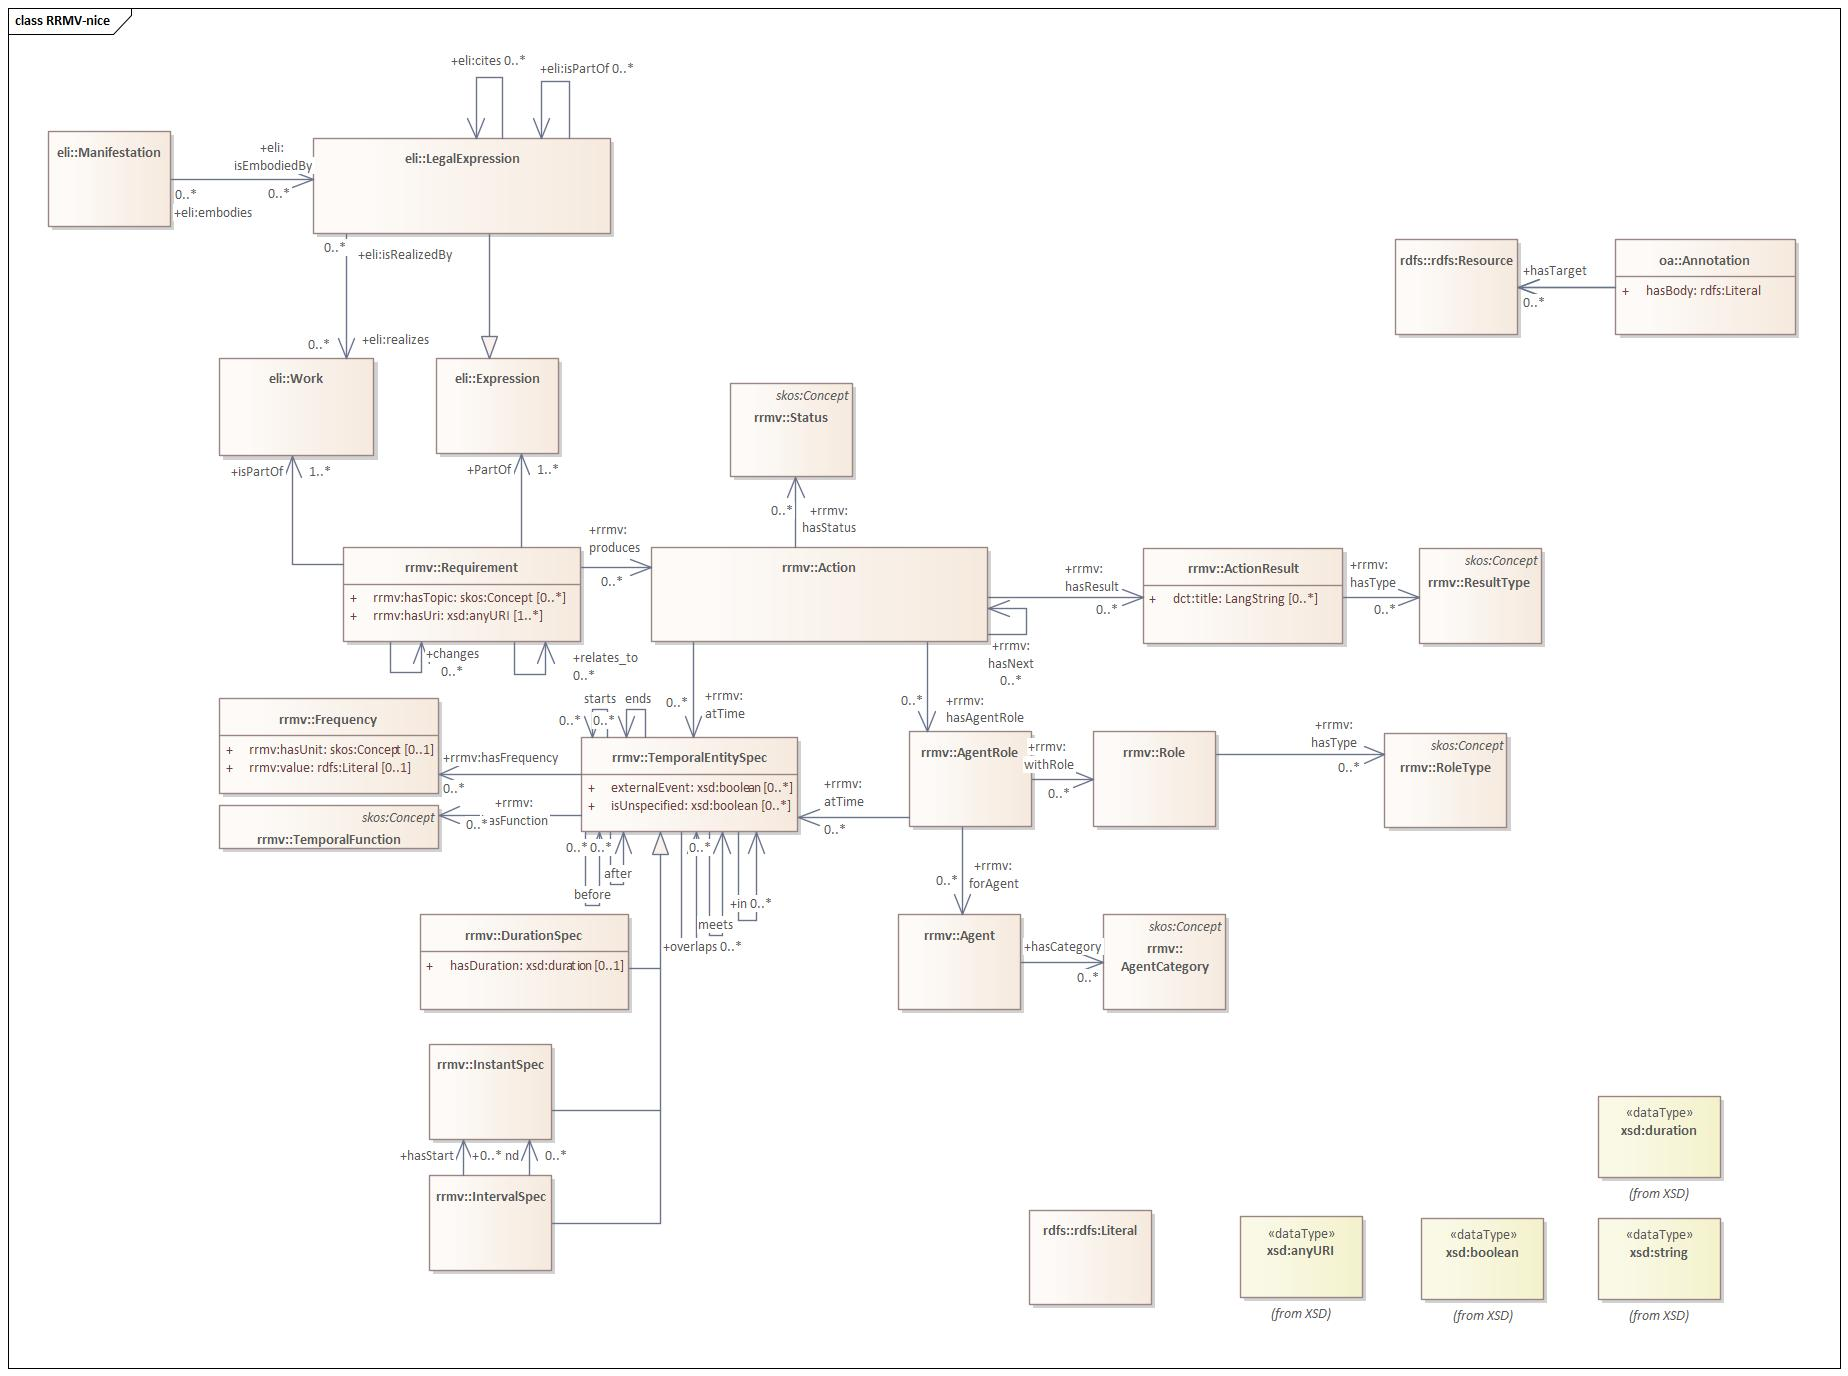
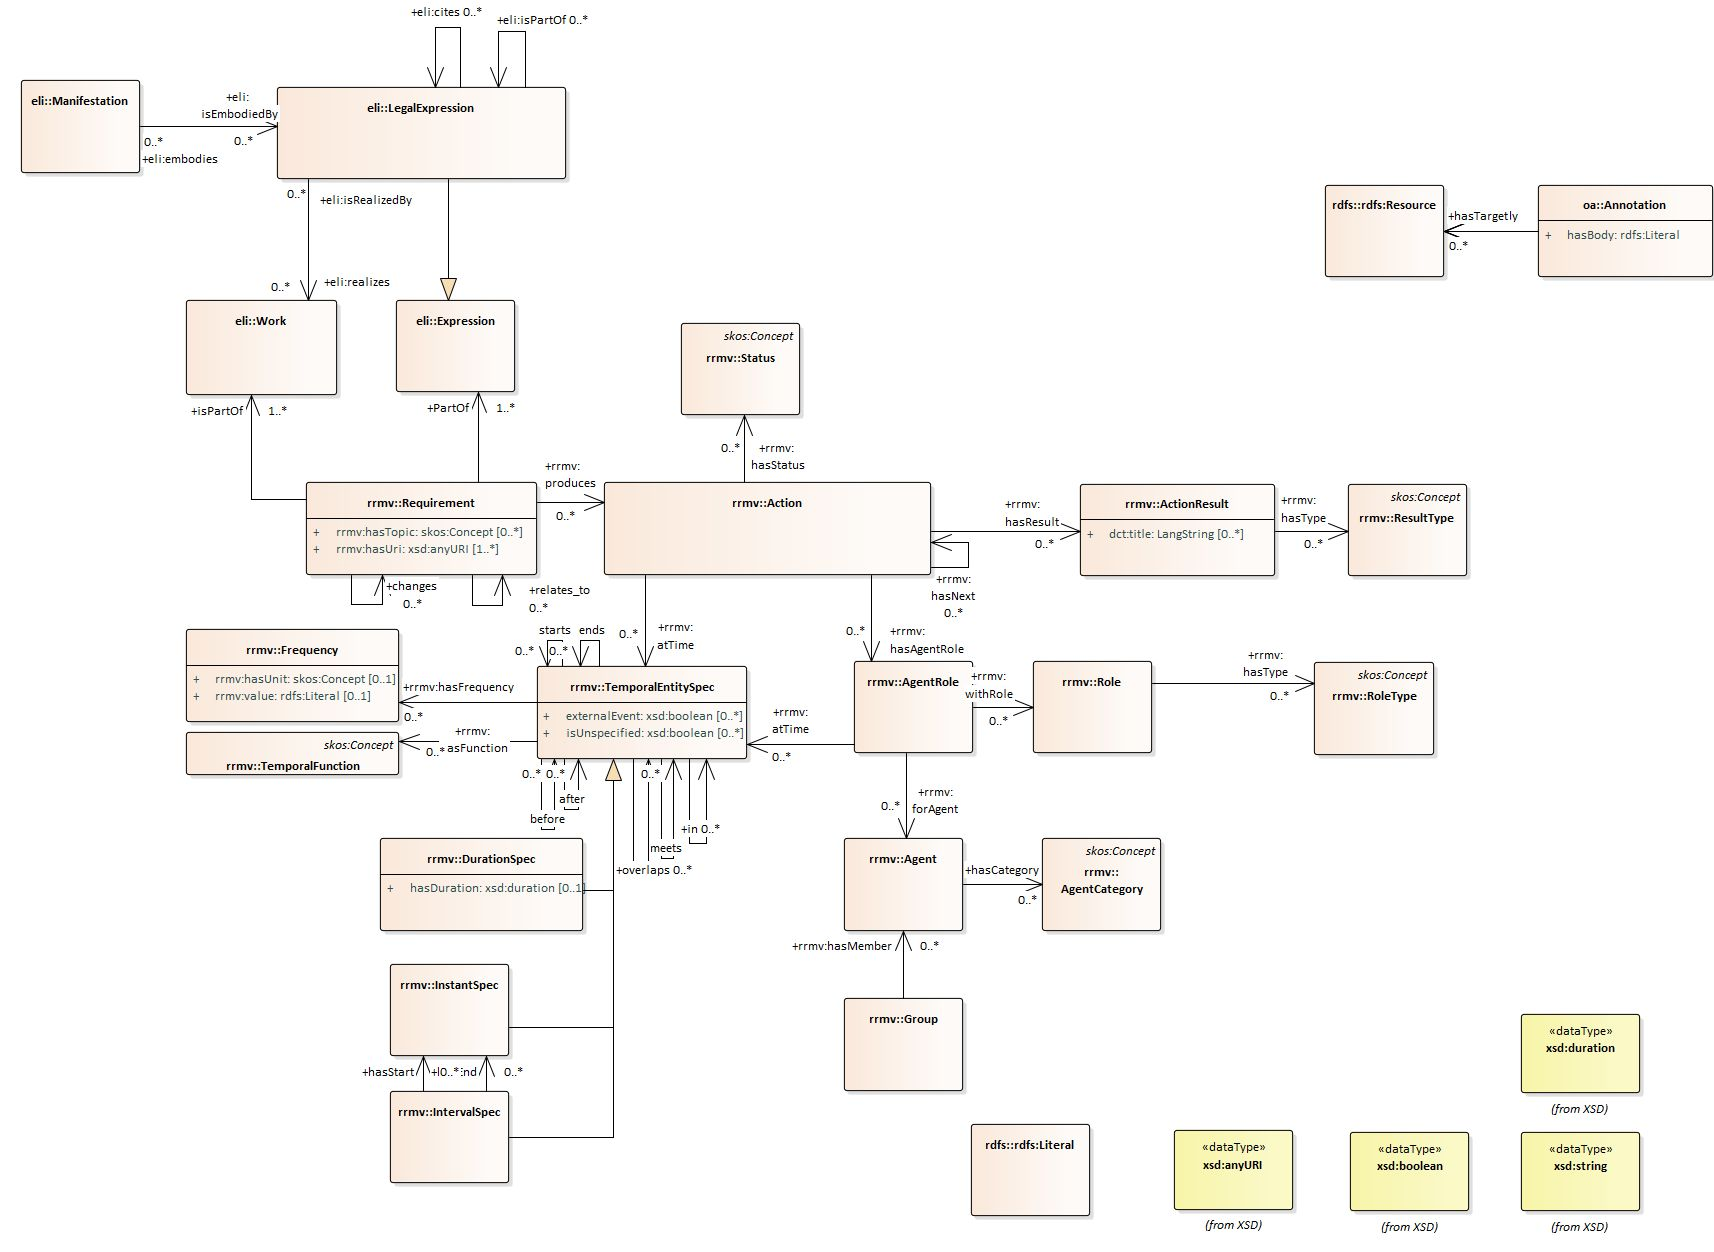
update release 1.0.0

diff --git a/releases/1.0.0/index.html b/releases/1.0.0/index.html
@@ -523,6 +523,7 @@ The cardinalities and qualifications are included in the figure.
 			      <a href="#DurationTemporalEntitySpecification">Duration Temporal Entity Specification</a> |
 			      <a href="#Expression">Expression</a> |
 			      <a href="#Frequency">Frequency</a> |
+			      <a href="#Group">Group</a> |
 			      <a href="#InstantTemporalEntitySpecification">Instant Temporal Entity Specification</a> |
 			      <a href="#IntervalTemporalEntitySpecification">Interval Temporal Entity Specification</a> |
 			      <a href="#LegalExpression">Legal Expression</a> |
@@ -1564,6 +1565,8 @@ Therefore it may vary over time when new versions of DCAT-AP are created.
 
     </div>
 </section>
+
+
 
 
 
@@ -3222,6 +3225,157 @@ In this context, supporting entities are those defined in the same namespace as 
 
    
         <section>
+            <h3 id="Group">
+                <a href="http://data.europa.eu/2qy/rrmv#Group"
+                   data-toggle="tooltip"
+                   data-content="http://data.europa.eu/2qy/rrmv#Group"
+                   data-placement="right">Group</a>
+
+            </h3>
+	        <!-- XXX an image in the h3 will break the rendering of the Table Of Contents of Respec -->
+		<!-- outcomment github feedback possibility
+                <a href="https://github.com/SEMICeu/RRMV/issues/new?title=Issue%20for%20Group&body=Explain%20your%20issue"}}>
+                   <img src="html/callout.png" loading="lazy" alt="(create issue)" width="20" height="20"/>
+		</a>
+		-->
+            <dl>
+                <dt>
+                    Definition
+                </dt>
+                <dd>
+                    Legal subjects involved in an Action that constitutes a group of entities, such as classes of persons, organisations or things
+                </dd>
+                
+                
+                
+                    <dt>
+                        Properties
+                    </dt>
+                    
+                        <dd>
+                            For this entity the following properties are defined: <a href="#Group.hasmember">has member</a>
+                            .
+                    </dd>
+                
+            </dl>
+        </div>
+        
+            <div class="u-table-overflow">
+                <table class="data-table simple" id="table-mandatory-classes">
+                    <thead>
+                        <tr class="data-table__header">
+<!--
+                            <th class="data-table__header-title--sortable" style="width:5%">
+                            </th>
+--->
+                            <th class="data-table__header-title--sortable data-table__header-title--sortable-active" style="width:12%">
+                                Property
+                            </th>
+                            <th class="data-table__header-title--sortable" style="width:12%">
+                                Range
+                            </th>
+                            <th class="data-table__header-title--sortable" style="width:6%">
+                                Card
+                            </th>
+                            <th class="data-table__header-title--sortable" style="width:30%">
+                                Definition 
+                            </th>
+                            <th class="data-table__header-title--sortable" style="width:30%">
+                                Usage
+                            </th>
+			    <!--
+                            <th class="data-table__header-title--sortable" style="width:3%">
+                                Codelist
+                            </th>
+			    -->
+			    <!--
+                            <th class="data-table__header-title--sortable" style="width:3%">
+                                DCAT
+                            </th>
+			    -->
+			    <!--
+                            <th class="data-table__header-title--sortable" style="width:3%">
+                                Reuse
+                            </th>
+			    -->
+                        </tr>
+                    </thead>
+                    <tbody class="supertype">
+                        
+                            <tr id="Group.hasmember"
+                                typeof="rdfs:Property"
+                                resource="http://data.europa.eu/2qy/rrmv#rrmv:hasMember"
+                                class="class mandatory">
+<!--
+                                <td>
+				    <a href="https://github.com/SEMICeu/RRMV/issues/new?title=Issue%20for%20has member%20in%20Group&body=Explain%20your%20issue%20for%20https://semiceu.github.io/RRMV/releases/1.0.0%23Group.hasmember" target="_blank" rel="noopener noreferrer" >
+                                        <img src="html/callout.png" loading="lazy" alt="[o]" width="100" height="100"/>
+                                    </a>
+                                </td>
+--->
+                                <td>
+                                        <a href="http://data.europa.eu/2qy/rrmv#rrmv:hasMember"
+                                           data-toggle="tooltip"
+                                           data-content="http://data.europa.eu/2qy/rrmv#rrmv:hasMember"
+                                           data-placement="right">
+                                        has member</a>
+                                </td>
+                                <td>
+                                    
+                                        
+                                            <a href="#Agent" data-placement="right">Agent</a>
+                                        
+                                    
+                                </td>
+                                <td>
+                                    0..*
+                                </td>
+                                <td property="rdfs:comment">
+                                    A Group has a member if the Agent is part of the Group, either as an individual entity or as a subgroup.
+                                </td>
+                                <td property="skos:scopeNote">
+                                    
+                                </td>
+				<!--
+                                <td>
+                                    
+                                </td>
+				-->
+				<!--
+                                <td>
+                                    
+                                </td>
+				-->
+				<!--
+                                <td>
+                                    
+				        P
+				    
+                                </td>
+				-->
+                            </tr>
+                        
+                    </tbody>
+                </table>
+            </div>
+        
+
+                   
+
+	  
+
+
+    </div>
+</section>
+
+
+
+
+
+
+
+   
+        <section>
             <h3 id="InstantTemporalEntitySpecification">
                 <a href="http://data.europa.eu/2qy/rrmv#InstantSpec"
                    data-toggle="tooltip"
@@ -3965,7 +4119,8 @@ In this application profile, the supporting imported entities are those that are
                     </dt>
                     
                         <dd>
-                            For this entity the following properties are defined: <a href="#Annotation.hasbody">has body</a>
+                            For this entity the following properties are defined: <a href="#Annotation.bodyvalue">body value</a>
+                            , <a href="#Annotation.hasbody">has body</a>
                             , <a href="#Annotation.hastarget">has target</a>
                             .
                     </dd>
@@ -4015,6 +4170,59 @@ In this application profile, the supporting imported entities are those that are
                     </thead>
                     <tbody class="supertype">
                         
+                            <tr id="Annotation.bodyvalue"
+                                typeof="rdfs:Property"
+                                resource="http://www.w3.org/ns/oa#bodyValue"
+                                class="class mandatory">
+<!--
+                                <td>
+				    <a href="https://github.com/SEMICeu/RRMV/issues/new?title=Issue%20for%20body value%20in%20Annotation&body=Explain%20your%20issue%20for%20https://semiceu.github.io/RRMV/releases/1.0.0%23Annotation.bodyvalue" target="_blank" rel="noopener noreferrer" >
+                                        <img src="html/callout.png" loading="lazy" alt="[o]" width="100" height="100"/>
+                                    </a>
+                                </td>
+--->
+                                <td>
+                                        <a href="http://www.w3.org/ns/oa#bodyValue"
+                                           data-toggle="tooltip"
+                                           data-content="http://www.w3.org/ns/oa#bodyValue"
+                                           data-placement="right">
+                                        body value</a>
+                                </td>
+                                <td>
+                                    
+                                        
+                                            <a href="#Literal" data-placement="right">Literal</a>
+                                        
+                                    
+                                </td>
+                                <td>
+                                    0..*
+                                </td>
+                                <td property="rdfs:comment">
+                                    A plain text string to be used as the content of the body of the Annotation.
+                                </td>
+                                <td property="skos:scopeNote">
+                                    
+                                </td>
+				<!--
+                                <td>
+                                    
+                                </td>
+				-->
+				<!--
+                                <td>
+                                    
+                                </td>
+				-->
+				<!--
+                                <td>
+                                    
+				        P
+				    
+                                </td>
+				-->
+                            </tr>
+                        
                             <tr id="Annotation.hasbody"
                                 typeof="rdfs:Property"
                                 resource="http://www.w3.org/ns/oa#hasBody"
@@ -4036,12 +4244,12 @@ In this application profile, the supporting imported entities are those that are
                                 <td>
                                     
                                         
-                                            <a href="#Literal" data-placement="right">Literal</a>
+                                            <a href="#Resource" data-placement="right">Resource</a>
                                         
                                     
                                 </td>
                                 <td>
-                                    1
+                                    0..*
                                 </td>
                                 <td property="rdfs:comment">
                                     The object of the relationship is a resource that is a body of the Annotation.
@@ -4342,6 +4550,8 @@ An Expression cannot exist without a physical carrier but do not depend on a spe
 
     </div>
 </section>
+
+
 
 
 
@@ -5351,7 +5561,7 @@ Additional functionalities of the Web Annotation Vocabulary are not considered e
 
 
 example:Requirement0032024R0900 a rrmv:Requirement ;
-    rrmv:hasURI "http://data.europa.eu/eli/reg/2024/900/oj/article/007/paragraph/002"^^xsd:anyURI ;
+    rrmv:hasURI "http://data.europa.eu/eli/reg/2024/900/oj/art_7/par_2"^^xsd:anyURI ;
     rrmv:produces example:Action0032024R0900 ;
     dcterms:isPartOf &lt;http://data.europa.eu/eli/reg/2024/900/oj&gt; .
 
@@ -5901,11 +6111,25 @@ The properties are grouped under headings <it>mandatory, recommended, optional</
 					
 						
 					
+						
+					
 					
 						
 					
 						
 					
+						
+					
+					
+						
+							<tr>
+								<td><a href="#Annotation">Annotation</a></td>
+								<td><div class="shorten">http://www.w3.org/ns/oa#Annotation</div></td>
+								<td></td>
+								<td><a href="#Annotation.bodyvalue">body value </a></td>
+								<td><div class="shorten">http://www.w3.org/ns/oa#bodyValue</div></td>
+							</tr>
+						
 					
 						
 							<tr>
@@ -6012,6 +6236,27 @@ The properties are grouped under headings <it>mandatory, recommended, optional</
 								<td></td>
 								<td><a href="#Frequency.value">value </a></td>
 								<td><div class="shorten">http://data.europa.eu/2qy/rrmv#value</div></td>
+							</tr>
+						
+					
+				
+			</tr>
+		
+				
+					
+						
+					
+					
+						
+					
+					
+						
+							<tr>
+								<td><a href="#Group">Group</a></td>
+								<td><div class="shorten">http://data.europa.eu/2qy/rrmv#Group</div></td>
+								<td></td>
+								<td><a href="#Group.hasmember">has member </a></td>
+								<td><div class="shorten">http://data.europa.eu/2qy/rrmv#rrmv:hasMember</div></td>
 							</tr>
 						
 					
